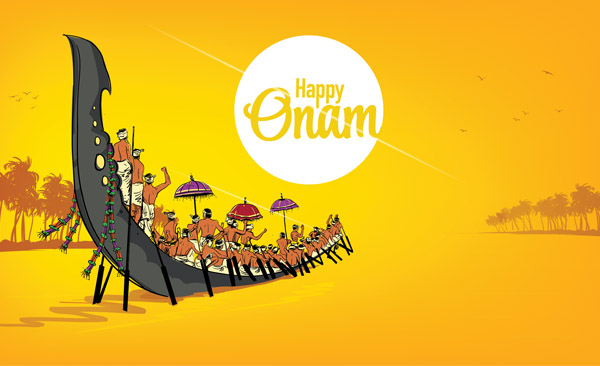
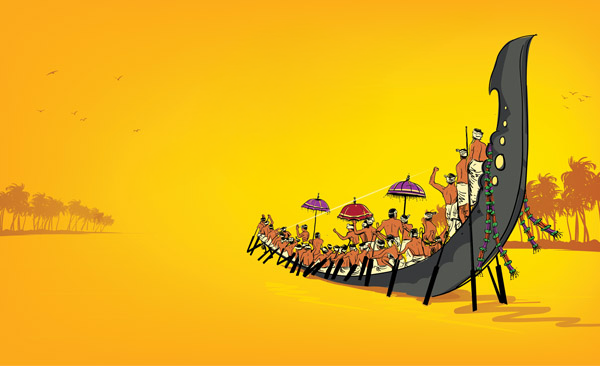
style: remove rounded clipping from pookalam since the image is already round and transparent

diff --git a/src/components/forms/ConfirmationScreen.tsx b/src/components/forms/ConfirmationScreen.tsx
@@ -71,7 +71,7 @@ export function ConfirmationScreen({
               <p className="text-white text-[17px] font-black tracking-[0.1em] leading-none">TOYOTA</p>
             </div>
           </div>
-          <div className="pookalam-spin opacity-90 flex-shrink-0 overflow-hidden rounded-full relative" style={{ width: 64, height: 64 }}>
+          <div className="pookalam-spin opacity-90 flex-shrink-0 relative" style={{ width: 64, height: 64 }}>
             <Image src="/images/pookalam.png" alt="Onam pookalam" fill sizes="64px" className="object-cover" priority />
           </div>
         </div>
@@ -85,7 +85,7 @@ export function ConfirmationScreen({
         <div className="flex items-end justify-center gap-6 mb-1">
           <NilavilakkuLamp size={36} />
           <div className="check-pop relative flex-shrink-0">
-            <div style={{ width: 88, height: 88, position: 'relative' }} className="overflow-hidden rounded-full">
+            <div style={{ width: 88, height: 88, position: 'relative' }}>
               <Image src="/images/pookalam.png" alt="" fill sizes="88px" className="object-cover opacity-80" priority />
               <div className="absolute inset-0 flex items-center justify-center">
                 <div
@@ -123,7 +123,7 @@ export function ConfirmationScreen({
             <p className="text-[9px] font-bold tracking-[0.22em] uppercase" style={{ color: '#FFD700' }}>Entry Ticket</p>
             <p className="text-white text-[12px] font-semibold mt-0.5">Nippon Toyota Onam Lucky Draw</p>
           </div>
-          <div className="pookalam-spin flex-shrink-0 overflow-hidden rounded-full relative" style={{ width: 36, height: 36 }}>
+          <div className="pookalam-spin flex-shrink-0 relative" style={{ width: 36, height: 36 }}>
             <Image src="/images/pookalam.png" alt="" fill sizes="36px" className="object-cover" />
           </div>
         </div>

diff --git a/src/components/forms/EntryForm.tsx b/src/components/forms/EntryForm.tsx
@@ -114,7 +114,7 @@ export function EntryForm({ slug, branchName, models }: EntryFormProps) {
               <p className="text-white text-[17px] font-black tracking-[0.1em] leading-none">TOYOTA</p>
             </div>
           </div>
-          <div className="pookalam-spin opacity-90 flex-shrink-0 overflow-hidden rounded-full relative" style={{ width: 72, height: 72 }}>
+          <div className="pookalam-spin opacity-90 flex-shrink-0 relative" style={{ width: 72, height: 72 }}>
             <Image src="/images/pookalam.png" alt="Onam pookalam" fill sizes="72px" className="object-cover" priority />
           </div>
         </div>
